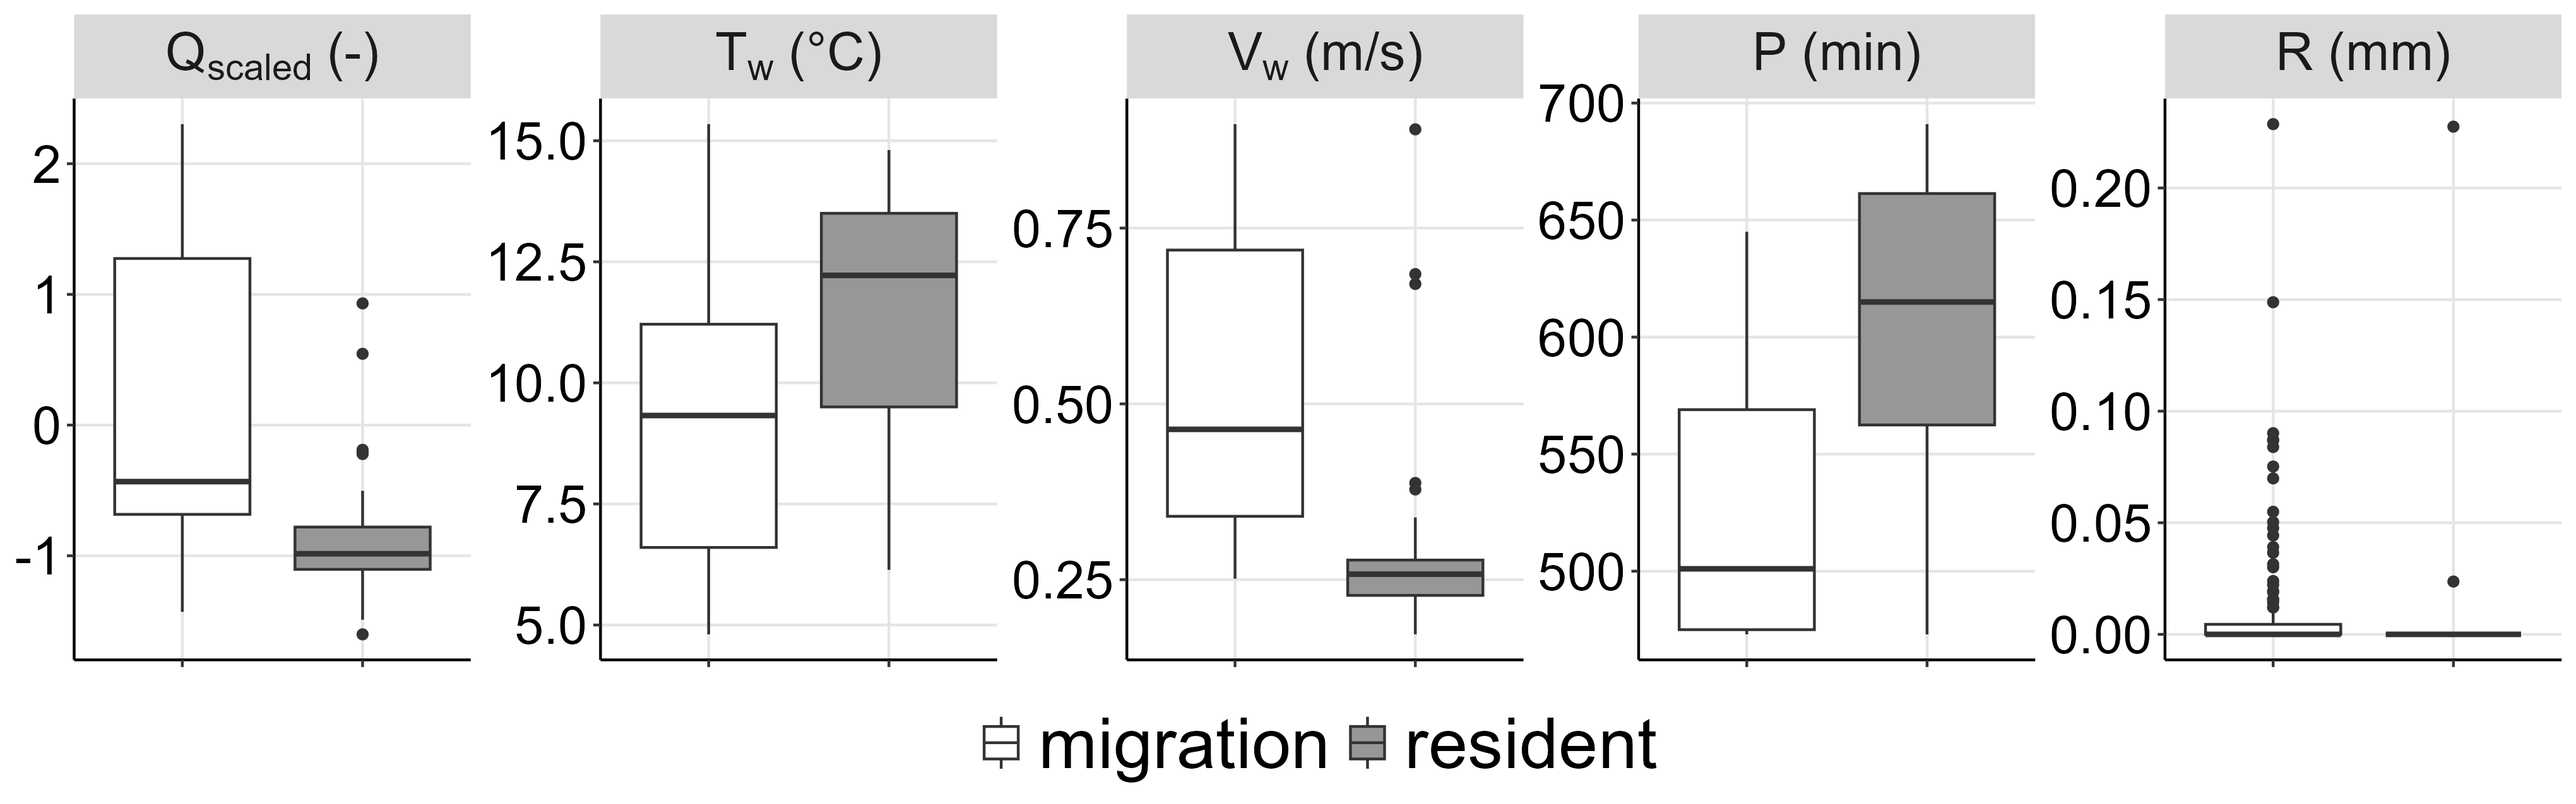
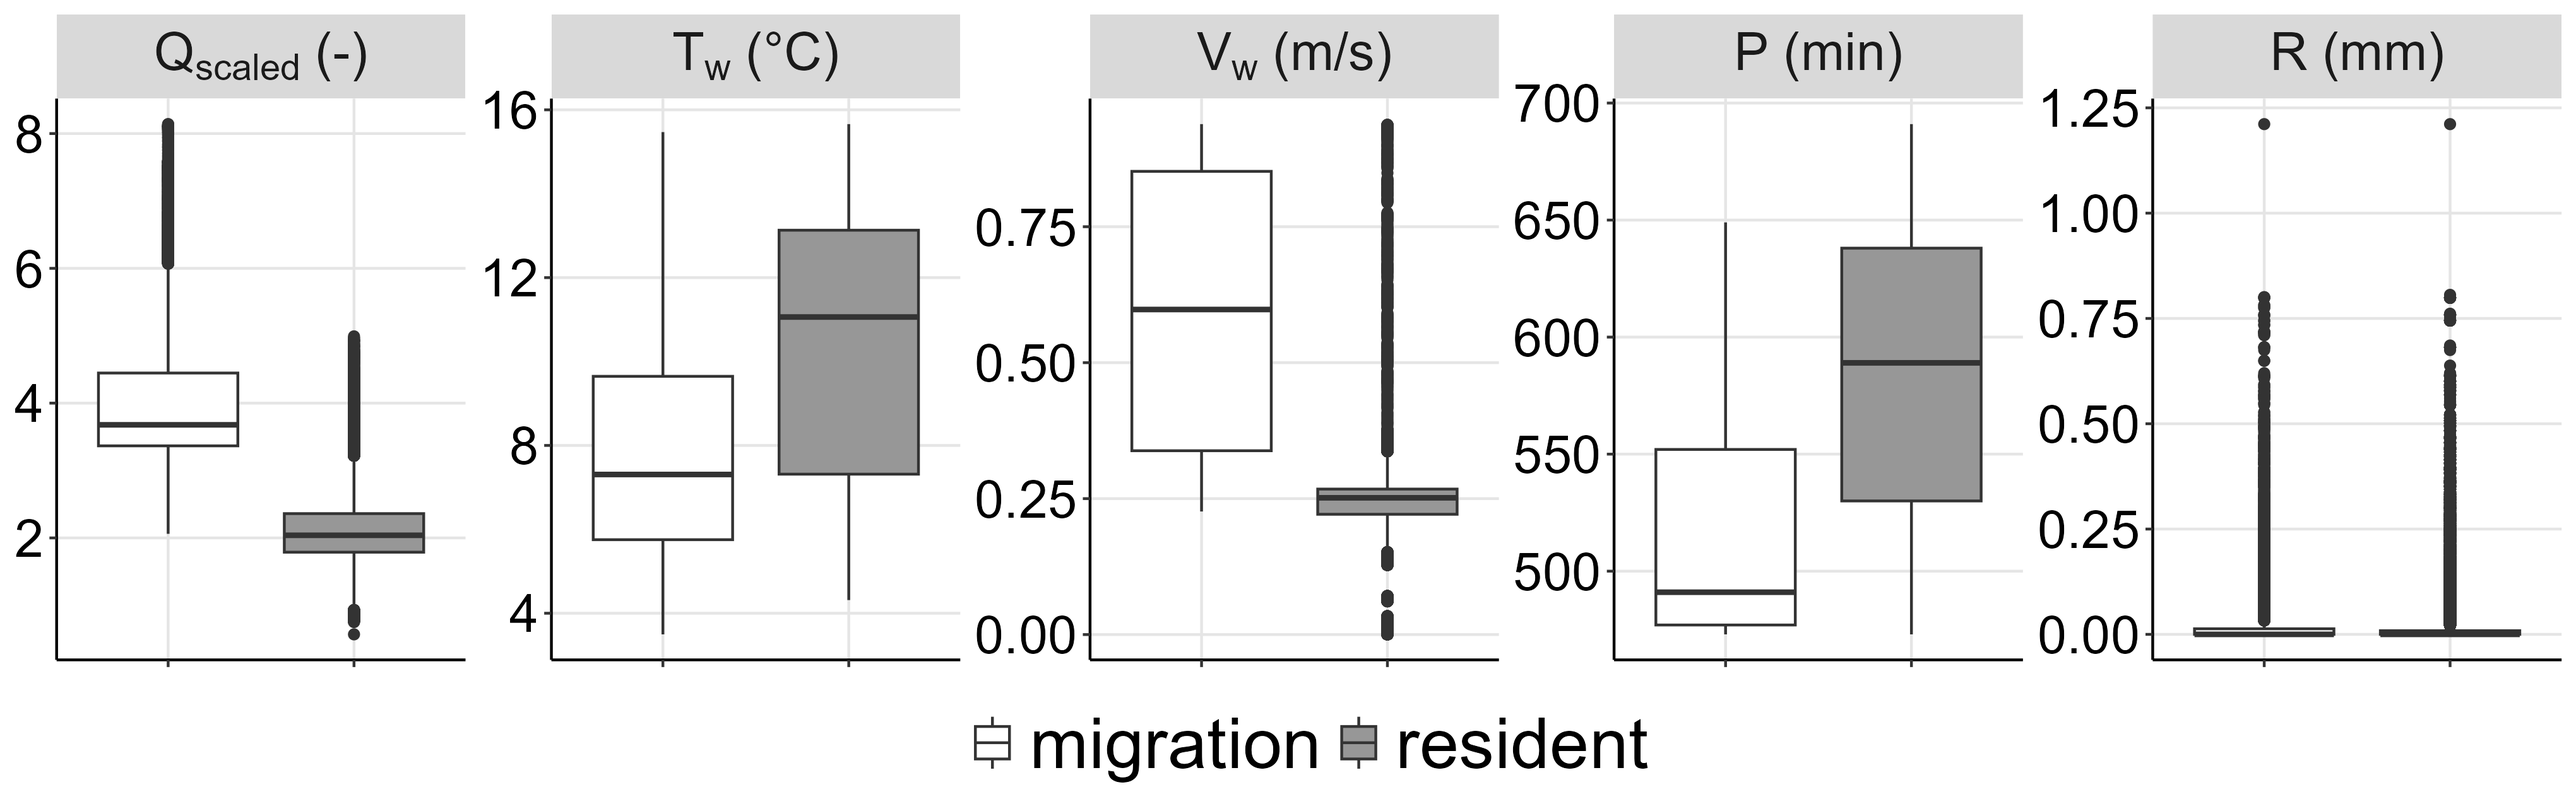
add comments before publishing

diff --git a/README.md b/README.md
@@ -128,8 +128,8 @@ Analysis
     + looking at seperate eels (less false resident in straightforward migration part)
     + first value is NA (for each eel)
     + 1 = resident, 2 = migration
-* `02_trajectories.R:` Calculate the average durations and speeds
-* `03_onset_migration.R:` Resident Vs migration: Is there a difference in environmental variables? Are there short-term triggers to onset migration?
+* `02_trajectories.R:` Calculate the average migration durations and speeds
+* `03_onset_migration.R:` resident vs migration: which environmental variables influence this? Are there short-term triggers to onset migration?
     + data selection: non-tidal, remove the first day after release
         - add column: label --> 'resident' and 'migration' and later for the model: label_bin --> 0 = resident and 1 = migration
     + Boxplot to see difference in conditions
